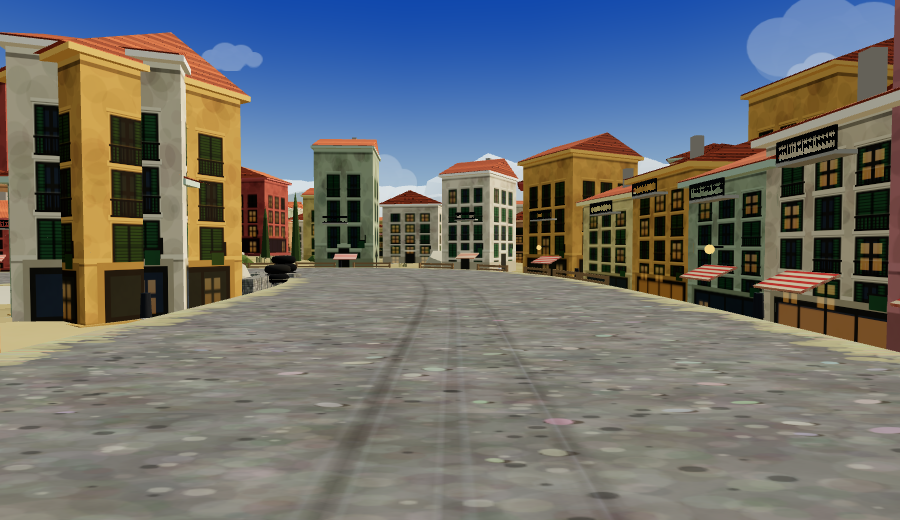
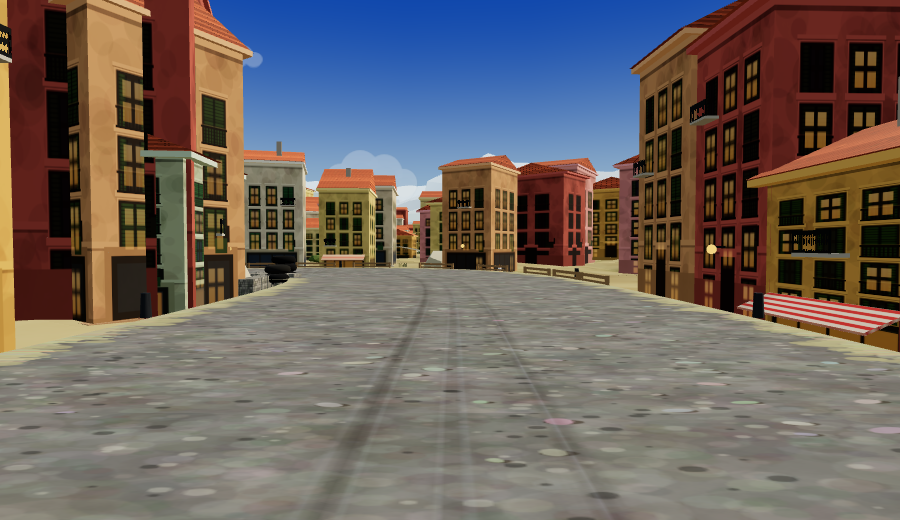
r245: a balcony belongs to a window
"The balcony is all over the place." It was, and it was made of three
numbers that knew nothing about the facade painted under them: a slab at
baseY + hh * 0.52, wAlong * 0.42 wide, jittered a random third of the
frontage sideways. Four faults in one placement:

- `hh` is the height the terrace ASKED for, and `put` builds the body at
  hh * [1, 0.62, 1.24, 0.94] for its variant. So 0.52 of it is 84% of the
  way up a cottage — a balcony under the gutter — and 42% of the way up a
  merchant house: same call, same street, a different storey on every
  house. This is the chimney bug of r244 again. Anything hung on a house
  measures from what was BUILT, never from what was requested.
- it was never on a storey line, so on a five-storey face it cut across
  the middle of a row of windows;
- it was never on a BAY, so it hung on blank wall as often as not;
- and at 0.42 of the frontage it was wider than the two windows it sat
  between.

The fix is to ask the painter. `townhouseAnchors(variant, set)` returns a
facade's sills, heads, bay centres and shopfront head in fractions of the
block — v from the kerb up, u from the middle of the frontage. The frontage
builds one per variant and hands it to `faceAt`, which puts the slab on a
real sill, centres it on a real bay, and sizes it to one and a half bay
widths.

The awnings had the same disease and the same cure: a flat baseY + 2.95
becomes the head of the shopfront that is actually painted there, and they
[…]

diff --git a/src/track.js b/src/track.js
@@ -14,6 +14,7 @@ import {
   sunTexture, hazeTexture, roadNeonEmissiveTexture, towerTexture,
   contactShadowTexture, horizonTexture, stoneTexture, junctionTexture,
   townhouseTexture, townhouseGlowTexture, roofTileTexture, ironRailTexture,
+  townhouseAnchors,
 } from './textures.js';
 
 export const LEVELS = [
@@ -16791,7 +16792,8 @@ export class Track {
       // `h` is the height the block was BUILT at (the variant scales it), and
       // `rh` the height its roof was built at — anything hung off the roofline
       // has to measure from these and not from what was asked for.
-      return { solid, p, y, h, r, lat, rh: effRoofH, mesh: myMesh, roof: myRoof, idx: myIdx };
+      return { solid, p, y, h, r, lat, rh: effRoofH, variant: vi >> 1,
+        mesh: myMesh, roof: myRoof, idx: myIdx };
     };
 
     // chimney stacks: a small dark box riding most ridges. The cheapest thing
@@ -16900,7 +16902,12 @@ export class Track {
     // before the street yaw — so it leans out over the kerb on both sides
     const qa = new THREE.Quaternion();
     const fwd = new THREE.Vector3(0, 0, 1);
-    const faceAt = (i, side, lat, dAcross, wAlong, baseY, hh) => {
+    // WHAT THE FACADE UNDER IT ACTUALLY HAS: the storey lines and bay centres
+    // the texture painter used, per variant, in fractions of the block.
+    const ANCH = [];
+    for (let v = 0; v < VARIANTS; v++) ANCH.push(townhouseAnchors(v, F.bayset));
+
+    const faceAt = (i, side, lat, dAcross, wAlong, baseY, vh, anch) => {
       const p = this.pointAt(i, lat * side);
       q.setFromAxisAngle(up, this.headingAt(i));
       // local +X is the road normal, so the face the driver sees is the one
@@ -16918,28 +16925,60 @@ export class Track {
       // supposed to stand on, with clear daylight between the awning and the
       // wall. A ledge is attached to a building or it is not a ledge.
       const proud = Math.sign(out);                     // +1 if the face is +X
-      if (hh > 6.2 && balK < BALC) {
-        const by = baseY + hh * 0.52;
-        const SD = 0.85;                                // how far the slab reaches out
+      // A BALCONY BELONGS TO A WINDOW (r245).
+      //
+      // This used to be `baseY + hh * 0.52` by `wAlong * 0.42` wide with a
+      // random third of the frontage of side jitter — three numbers, none of
+      // which knows anything about the facade painted underneath. Reported as
+      // "the balcony is all over the place", and it was, in four ways at once:
+      //
+      //   - `hh` is the height the terrace ASKED for, and `put` builds the
+      //     body at `hh * [1, 0.62, 1.24, 0.94]` for its variant. So 0.52 of
+      //     it is 84% of the way up a cottage — a balcony under the gutter —
+      //     and 42% of the way up a merchant house. Same street, same call,
+      //     a different storey on every house. (Same defect the chimneys had.)
+      //   - it was never on a storey line, so on a five-storey face it cut
+      //     across the middle of a row of windows.
+      //   - it was never on a BAY, so it hung on blank wall as often as not.
+      //   - and at 0.42 of the frontage it was wider than the two windows it
+      //     was between.
+      //
+      // `anch` is where that variant's painter actually put its sills and its
+      // bays (see townhouseAnchors), so all four go away together.
+      const sills = anch?.sills ?? [];
+      const bays = anch?.bays ?? [];
+      // the storeys clear of the shopfront, which is where a balcony can be
+      const upper = [];
+      for (let r = 0; r < sills.length; r++) if (sills[r] > 0.34) upper.push(sills[r]);
+      if (vh > 6.2 && upper.length && bays.length && balK < BALC) {
+        const sv = upper[(Math.random() * upper.length) | 0];
+        const bay = bays[(Math.random() * bays.length) | 0];
+        const by = baseY + vh * sv;
+        const SD = 0.8;                                 // how far the slab reaches out
         const sx = out + proud * SD * 0.5;              // slab centred on the lip
-        const zj = (Math.random() - 0.5) * wAlong * 0.3;
+        // a balcony is a little wider than its window and no wider: 1.5 bays
+        const bwid = Math.max(1.1, wAlong * bay.w * 1.5);
+        const zj = wAlong * bay.u;
         faceOff.set(sx, 0, zj).applyQuaternion(q);
         m4.compose(new THREE.Vector3(p.x + faceOff.x, by, p.z + faceOff.z), q,
-          new THREE.Vector3(SD, 0.16, wAlong * 0.42));
+          new THREE.Vector3(SD, 0.16, bwid));
         balcSlabs.setMatrixAt(balK, m4);
         // the rail stands ON the slab's outer lip, not past it
         const rx = out + proud * (SD - 0.05);
         faceOff.set(rx, 0, zj).applyQuaternion(q);
         m4.compose(new THREE.Vector3(p.x + faceOff.x, by + 0.5, p.z + faceOff.z), q,
-          new THREE.Vector3(0.1, 0.9, wAlong * 0.42));
+          new THREE.Vector3(0.1, 0.9, bwid));
         balcRails.setMatrixAt(balK, m4);
         balK++;
       }
-      // and an awning over the ground floor on about half of them
-      if (Math.random() < 0.5 && awnK < BALC) {
+      // and an awning over the ground floor on about half of them — but only
+      // where the painter drew a SHOPFRONT to hang it over
+      const shop = anch?.shop;
+      if ((!anch || shop?.has) && Math.random() < 0.5 && awnK < BALC) {
         const AD = 1.6;                                 // awning reach
         faceOff.set(out + proud * AD * 0.48, 0,
-          (Math.random() - 0.5) * wAlong * 0.25).applyQuaternion(q);
+          shop ? wAlong * shop.u : (Math.random() - 0.5) * wAlong * 0.25)
+          .applyQuaternion(q);
         // AN AWNING SLOPES. Flat, it is a horizontal plate 2.9 u up and the
         // driver only ever sees its UNDERSIDE — which faces away from the sun
         // and renders black, so every shopfront on the street had a dark slab
@@ -16947,8 +16986,13 @@ export class Track {
         // you look at and the stripes on it are what you see.
         qa.setFromAxisAngle(fwd, -proud * 0.42);
         qa.premultiply(q);
-        m4.compose(new THREE.Vector3(p.x + faceOff.x, baseY + 2.95, p.z + faceOff.z),
-          qa, new THREE.Vector3(AD, 0.1, wAlong * 0.38));
+        // AND IT IS FIXED TO THE HEAD OF THE SHOPFRONT THAT IS PAINTED THERE,
+        // not to a flat 2.95 u: the same variant scaling that moved the
+        // balconies put this through the first-floor windows of a cottage and
+        // halfway up the glazing of a tall house.
+        const av = baseY + (shop ? vh * shop.v + 0.25 : 2.95);
+        m4.compose(new THREE.Vector3(p.x + faceOff.x, av, p.z + faceOff.z),
+          qa, new THREE.Vector3(AD, 0.1, shop ? wAlong * shop.w * 1.08 : wAlong * 0.38));
         awnings.setMatrixAt(awnK, m4);
         col.setHSL(0.02 + Math.random() * 0.12, 0.35, 0.44 + Math.random() * 0.16);
         awnings.setColorAt(awnK, col);
@@ -17003,7 +17047,8 @@ export class Track {
         if (Math.random() < 0.62) {
           chimAt(i, side, placed.lat, F.depth, ww, placed.y + placed.h, placed.rh);
         }
-        faceAt(i, side, placed.lat, F.depth, ww, placed.y, hh);
+        faceAt(i, side, placed.lat, F.depth, ww, placed.y, placed.h,
+          ANCH[placed.variant]);
         // A LANTERN ON THE BRACKET, every third house. Anchored to the FRONT
         // FACE, not the block centre — the arm only reaches 0.72 u and a
         // 8 u-deep building would have swallowed the bulb whole.

diff --git a/src/textures.js b/src/textures.js
@@ -2144,6 +2144,39 @@ function applyIronRail(g, x, y, bw, bh, S) {
   g.fillRect(x0, top - 1, x1 - x0, 1);
 }
 
+/** WHERE THE PAINTED FACADE PUTS ITS OPENINGS, in fractions of the block —
+ *  so anything MODELLED and hung on that face can be hung on a window rather
+ *  than at a guess.
+ *
+ *  The balconies and awnings were placed by fractions of the block instead:
+ *  a slab at 0.52 of the height and a random third of the width, an awning at
+ *  a flat 2.95 u. Nothing about those numbers knows where this variant's
+ *  storeys are, so a balcony cut across the windows of a five-storey face,
+ *  sat under the eaves of a cottage, and moved house to house — "all over the
+ *  place", and correctly so.
+ *
+ *  `v` is measured from the KERB up (0 = pavement, 1 = eaves) and `u` from the
+ *  middle of the frontage (-0.5 = one party wall, +0.5 = the other), which is
+ *  the frame a placement in metres actually wants.
+ */
+export function townhouseAnchors(variant = 0, set = null) {
+  const VB = townhouseBays(variant, set);
+  const rows = VB.rows || [];
+  const xs = VB.xs || [];
+  const bh = VB.bh ?? 40, bw = VB.bw ?? 48;
+  return {
+    // the sill of each storey, top row first — the line a balcony stands on
+    sills: rows.map((y) => 1 - (y + bh) / TH_H),
+    heads: rows.map((y) => 1 - y / TH_H),
+    bays: xs.map((x) => ({ u: (x + bw / 2) / TH_W - 0.5, w: bw / TH_W })),
+    // and the head of the shopfront, which is where an awning is fixed —
+    // `has` is false on the variants the painter gives a plain door instead,
+    // and an awning over a front door is not a thing this street has
+    shop: { has: !!VB.shop, v: 1 - TH_SHOP[1] / TH_H,
+      u: (TH_SHOP[0] + TH_SHOP[2] / 2) / TH_W - 0.5, w: TH_SHOP[2] / TH_W },
+  };
+}
+
 export function townhouseTexture(palette = {}, variant = 0, set = null) {
   const P = {
     render: '#b9ad98',            // limewashed render (tinted per instance)

diff --git a/HANDOVER.md b/HANDOVER.md
@@ -1860,3 +1860,49 @@ change for six worlds rather than a facade fix, so it was left alone
 deliberately — say the word and it is a `skyTop`/`skyHorizon` pass. The
 sheet's palms, cypresses and standing street lamps are the other half of its
 street-level panel and are flora/props work, not frontage.
+
+## r245 — A BALCONY BELONGS TO A WINDOW
+"The balcony is all over the place." It was, and it was made of three numbers
+that knew nothing about the facade painted under them: a slab at
+`baseY + hh * 0.52`, `wAlong * 0.42` wide, jittered a random third of the
+frontage sideways.
+
+### FOUR FAULTS IN ONE PLACEMENT
+  1. `hh` IS THE HEIGHT THE TERRACE ASKED FOR. `put` builds the body at
+     `hh * [1, 0.62, 1.24, 0.94]` for its variant, so 0.52 of `hh` is 84% of
+     the way up a cottage — a balcony under the gutter — and 42% of the way up
+     a merchant house. Same call, same street, a different storey on every
+     house. This is the CHIMNEY BUG AGAIN (r244): anything hung on a house has
+     to measure from what was BUILT, never from what was requested.
+  2. It was never on a storey line, so on a five-storey face it cut across the
+     middle of a row of windows.
+  3. It was never on a BAY, so it hung on blank wall as often as not.
+  4. At 0.42 of the frontage it was wider than the two windows it sat between.
+
+### THE FIX IS TO ASK THE PAINTER
+`townhouseAnchors(variant, set)` returns the sills, heads, bay centres and the
+shopfront head of a facade in FRACTIONS OF THE BLOCK — v from the kerb up, u
+from the middle of the frontage. The frontage builds one per variant and hands
+it to `faceAt`, which then puts the slab on a real sill, centres it on a real
+bay, and sizes it to one and a half bay widths.
+
+The awnings had the same disease and the same cure: a flat `baseY + 2.95`
+became the head of the shopfront that is actually painted there, and they only
+go on the variants that HAVE a shopfront — an awning over a front door is not
+a thing this street has.
+
+### MEASURED, WITH A BASELINE
+`tools-scratch/balconies.mjs` counts how many balconies and awnings sit within
+2 cm of one of the painted storey lines. Run against r244 and then against
+this build:
+
+    balconies on a painted storey   196/319  ->  311/319
+    awnings on the shopfront head    49/158  ->   89/90
+    distinct awning heights              25  ->        6
+
+The eight balconies and one awning still outside are the probe's own slack: it
+matches each to the NEAREST body, and a cottage beside a merchant house can
+claim its neighbour's. The number is a floor on the true figure, not a defect
+count.
+
+Gates: boot 4/4, test-boot 7/0, test-buildings green, test-carriageway green.

diff --git a/tools-scratch/README.md b/tools-scratch/README.md
@@ -53,6 +53,11 @@ real time to get right and the next session should not rebuild them.
                 which gate refused each station (start gate / gorge / curvature
                 / tunnelFitAt). Turned "asked 3, got 1" into "panorama refuses
                 212 stations as too curved against CAPE OLIVETO's 59".
+- `balconies.mjs` how many balconies and awnings sit on a storey line the
+                facade painter actually drew, against how many exist. It is
+                what turned "the balcony is all over the place" into 196/319,
+                and it falls back to `townhouseBays` on older builds so the
+                baseline can be measured on the commit before the fix.
 - `roadlum.mjs` the mean colour of the carriageway and of BOTH walls from the
                 driver's shot, plus how much of each is above 240. Written
                 because "the road is blown out" was wrong three times running:
